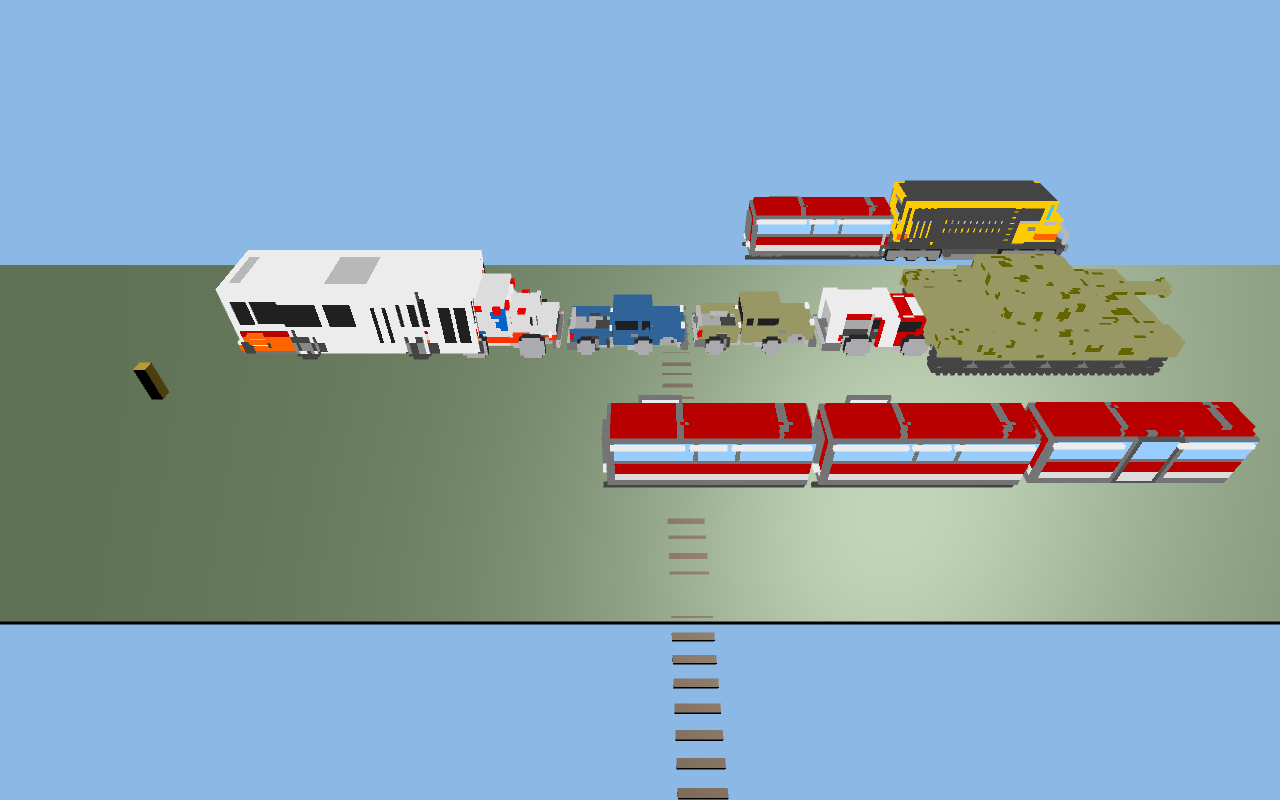
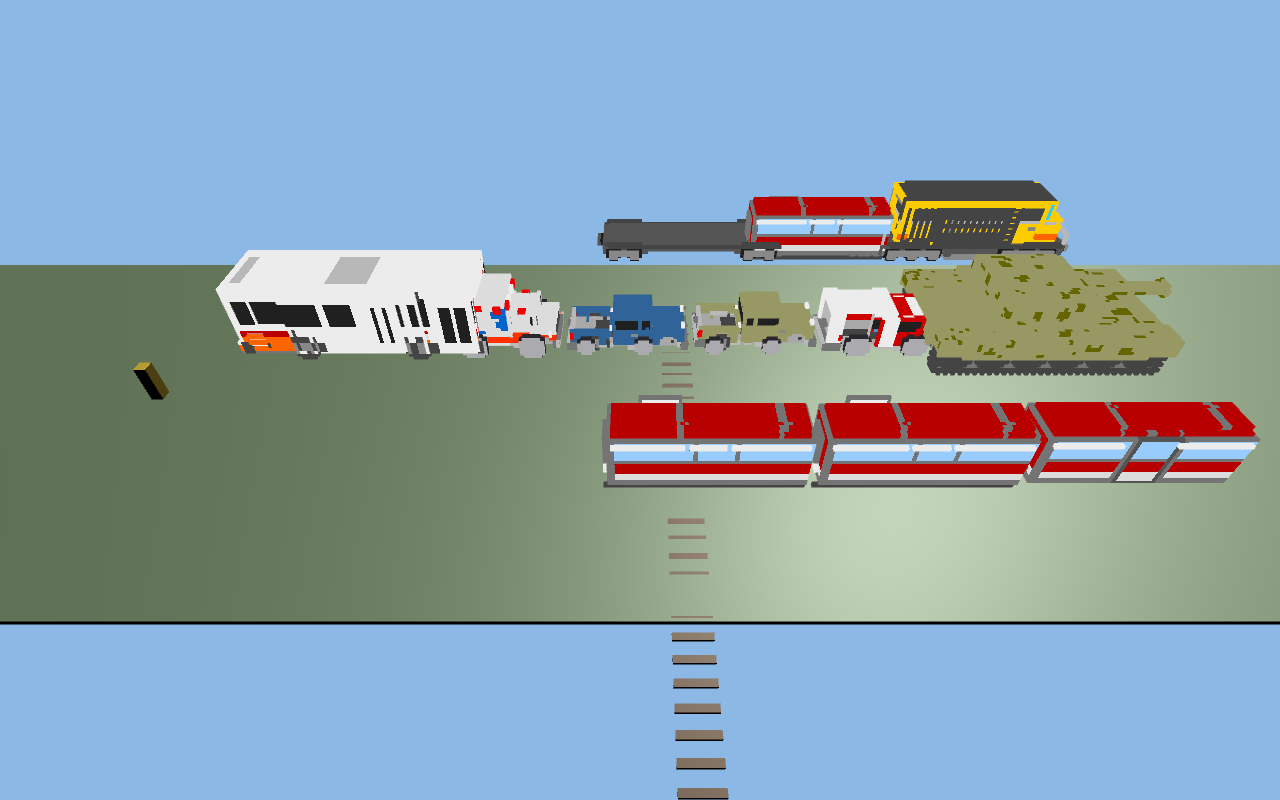
M46: train3 flatcar coupled behind the diesel consist
train3 is a 63-vox flat deck (17 wide, 7 tall) — a flatcar, not a
locomotive. Added to the z=32 diesel consist (train2 + coach3 +
train3) and to delivery sheet row 3. Verified coupled end-to-end,
level, on the ground; no tilt anywhere in the sheet.

Changed region(s): [[0.4688, 0.25, 0.625, 0.3438]]

diff --git a/VoxelCraft/Assets/Editor/M41DeliverySnapshot.cs b/VoxelCraft/Assets/Editor/M41DeliverySnapshot.cs
@@ -61,9 +61,9 @@ namespace VoxelCraft.Editor
             for (int i = 0; i < row2.Length; i++)
                 place(row2[i], new Vector3(row2x[i], 0f, -10f), 90f);
 
-            // row 3 (z=-20): diesel locomotive train2 + one coach (M45)
-            float[] row3x = { -20f, -9.6f };
-            string[] row3 = { "train2", "coach3" };
+            // row 3 (z=-20): diesel train2 + coach + flatcar train3 (M45/M46)
+            float[] row3x = { -20f, -9.6f, -1.4f };
+            string[] row3 = { "train2", "coach3", "train3" };
             for (int i = 0; i < row3.Length; i++)
                 place(row3[i], new Vector3(row3x[i], 0f, -20f), 90f);
 

diff --git a/VoxelCraft/Assets/Scripts/Core/Game.cs b/VoxelCraft/Assets/Scripts/Core/Game.cs
@@ -253,7 +253,7 @@ namespace VoxelCraft.Core
             var diesel = dTrack.AddComponent<Creatures.TrackTrain>();
             diesel.world = worldRoot;
             diesel.locomotiveName = "train2";
-            diesel.carNames = new[] { "coach3" };
+            diesel.carNames = new[] { "coach3", "train3" };   // coach + flatcar (63-vox deck)
             diesel.carGap = 0.15f;
             int dieselZ = 32;
             for (int rx3 = 6; rx3 < 60; rx3++)
